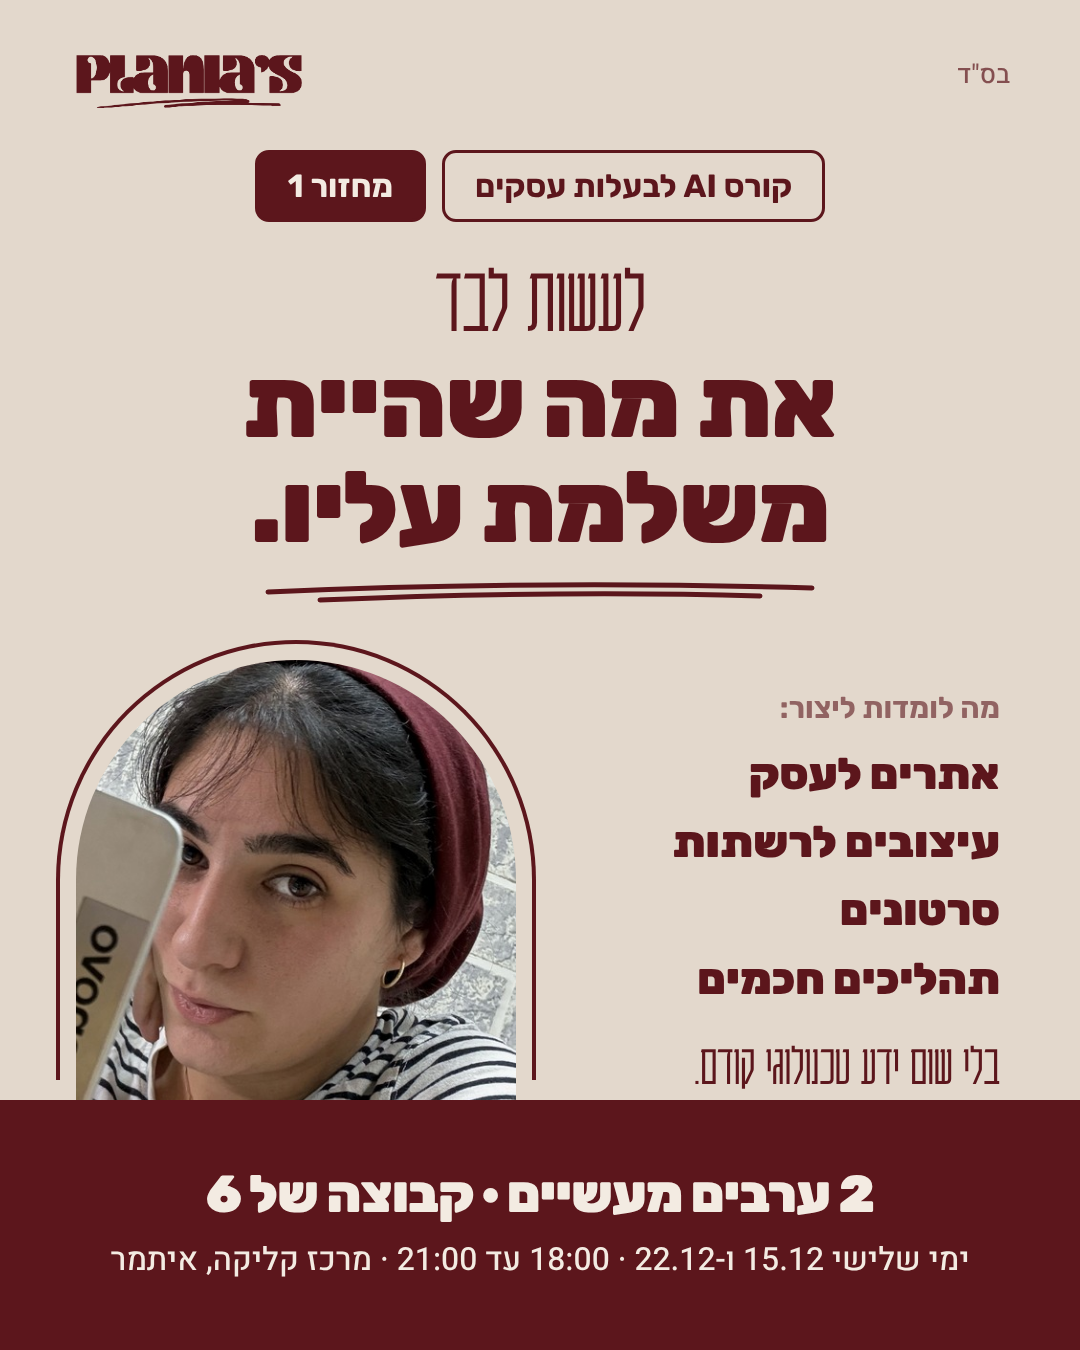
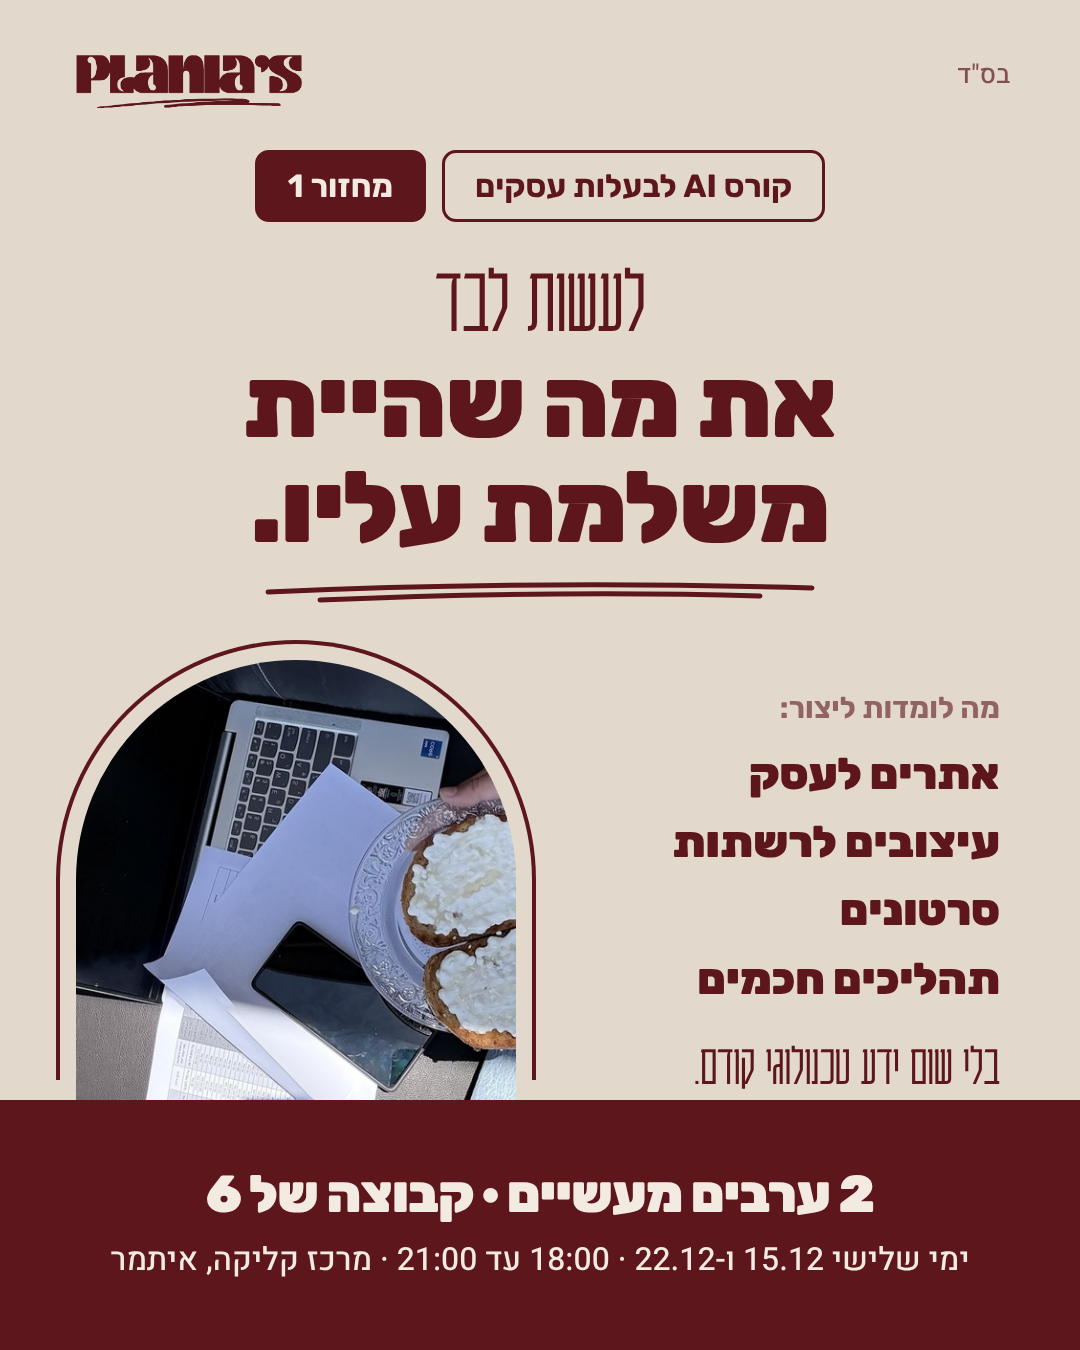
AI course ad: swap photo to laptop and papers
Claude-Session: https://claude.ai/code/session_01FAztRogrK4u7GmN3YWcRGe

Changed region(s): [[0.0611, 0.4667, 0.4889, 0.84]]

diff --git a/carousels/ai-course/ad.html b/carousels/ai-course/ad.html
@@ -11,7 +11,7 @@
     <svg class="uline" width="560" height="26" viewBox="0 0 560 26"><path d="M8 14 Q280 2 552 10 M60 22 Q300 12 500 18" stroke="#5c161c" stroke-width="5" fill="none" stroke-linecap="round"/></svg>
   </div>
   <div class="archline" style="left:56px;top:640px;width:480px;height:440px;color:var(--wine)"></div>
-  <div class="arch" style="left:76px;top:660px;width:440px;height:440px;border-radius:220px 220px 0 0"><img src="img/ad.jpg" style="object-position:50% 30%"></div>
+  <div class="arch" style="left:76px;top:660px;width:440px;height:440px;border-radius:220px 220px 0 0"><img src="img/ad.jpg"></div>
   <div class="abs" style="right:80px;top:690px;width:440px">
     <div style="font:700 30px Rubik;opacity:.6;margin-bottom:14px">מה לומדות ליצור:</div>
     <div style="font:900 44px Rubik;line-height:1.55">אתרים לעסק<br>עיצובים לרשתות<br>סרטונים<br>תהליכים חכמים</div>
